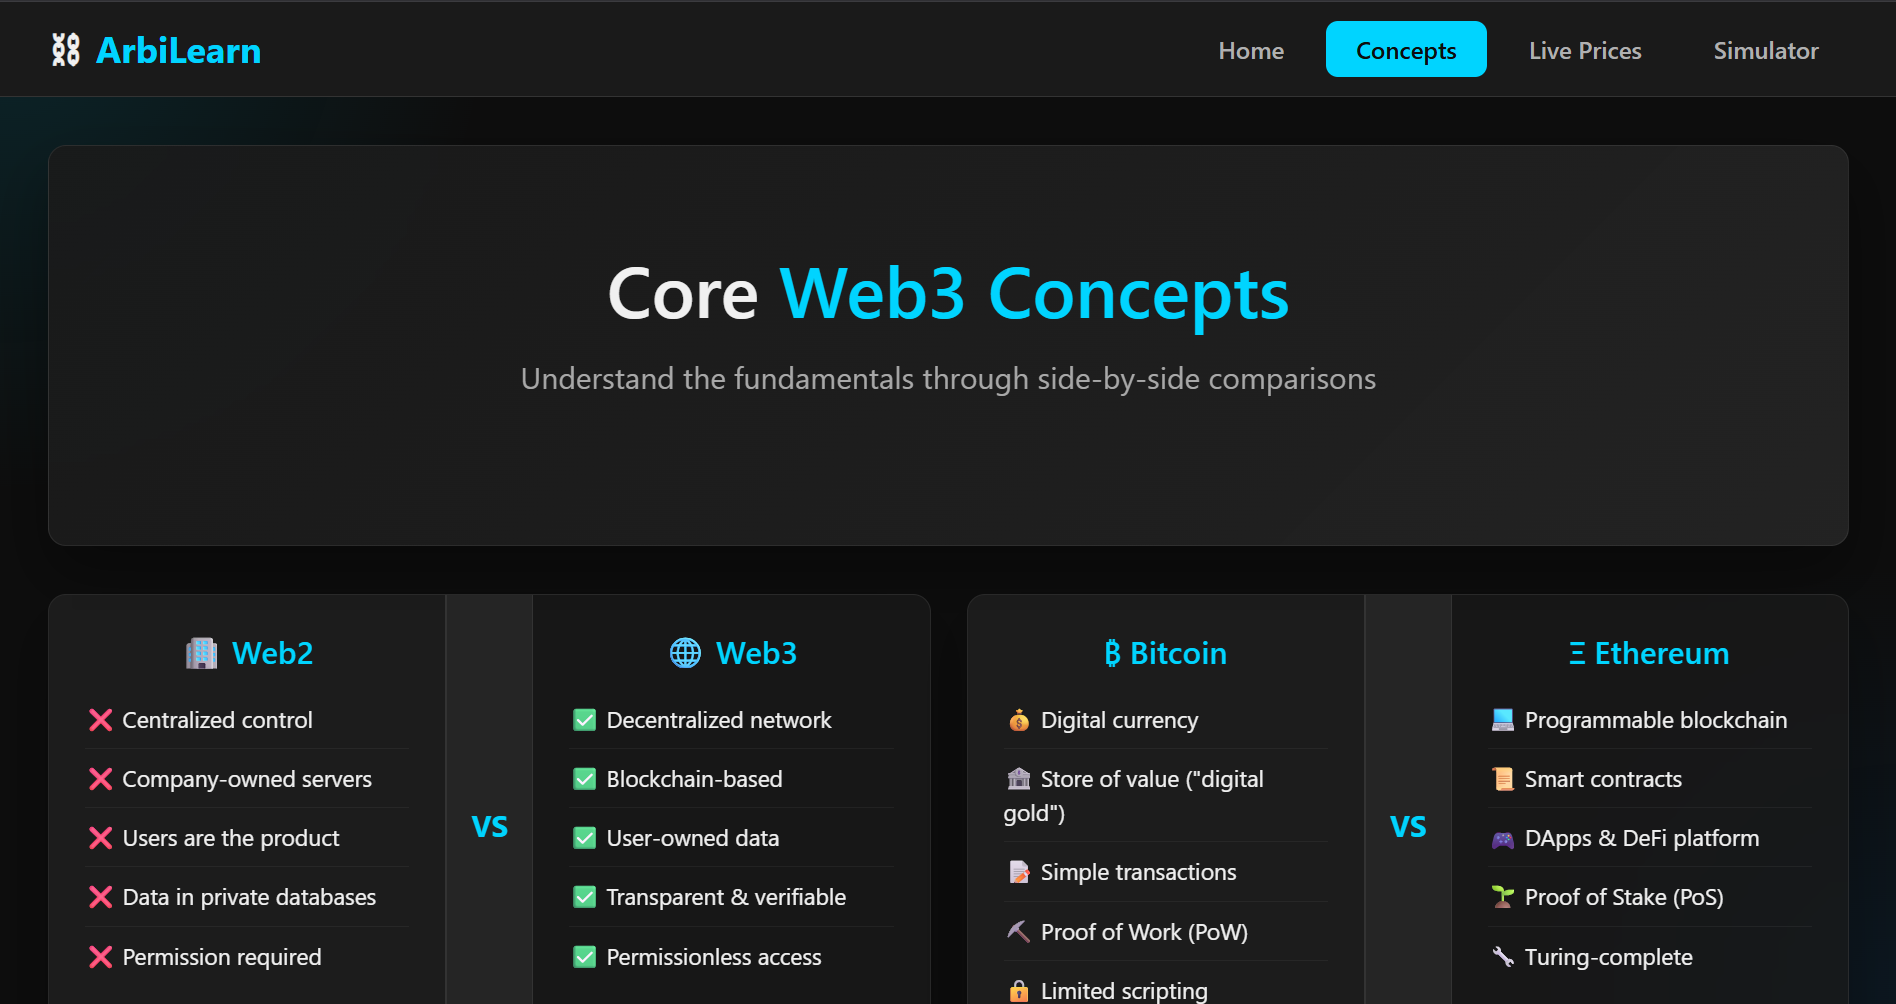
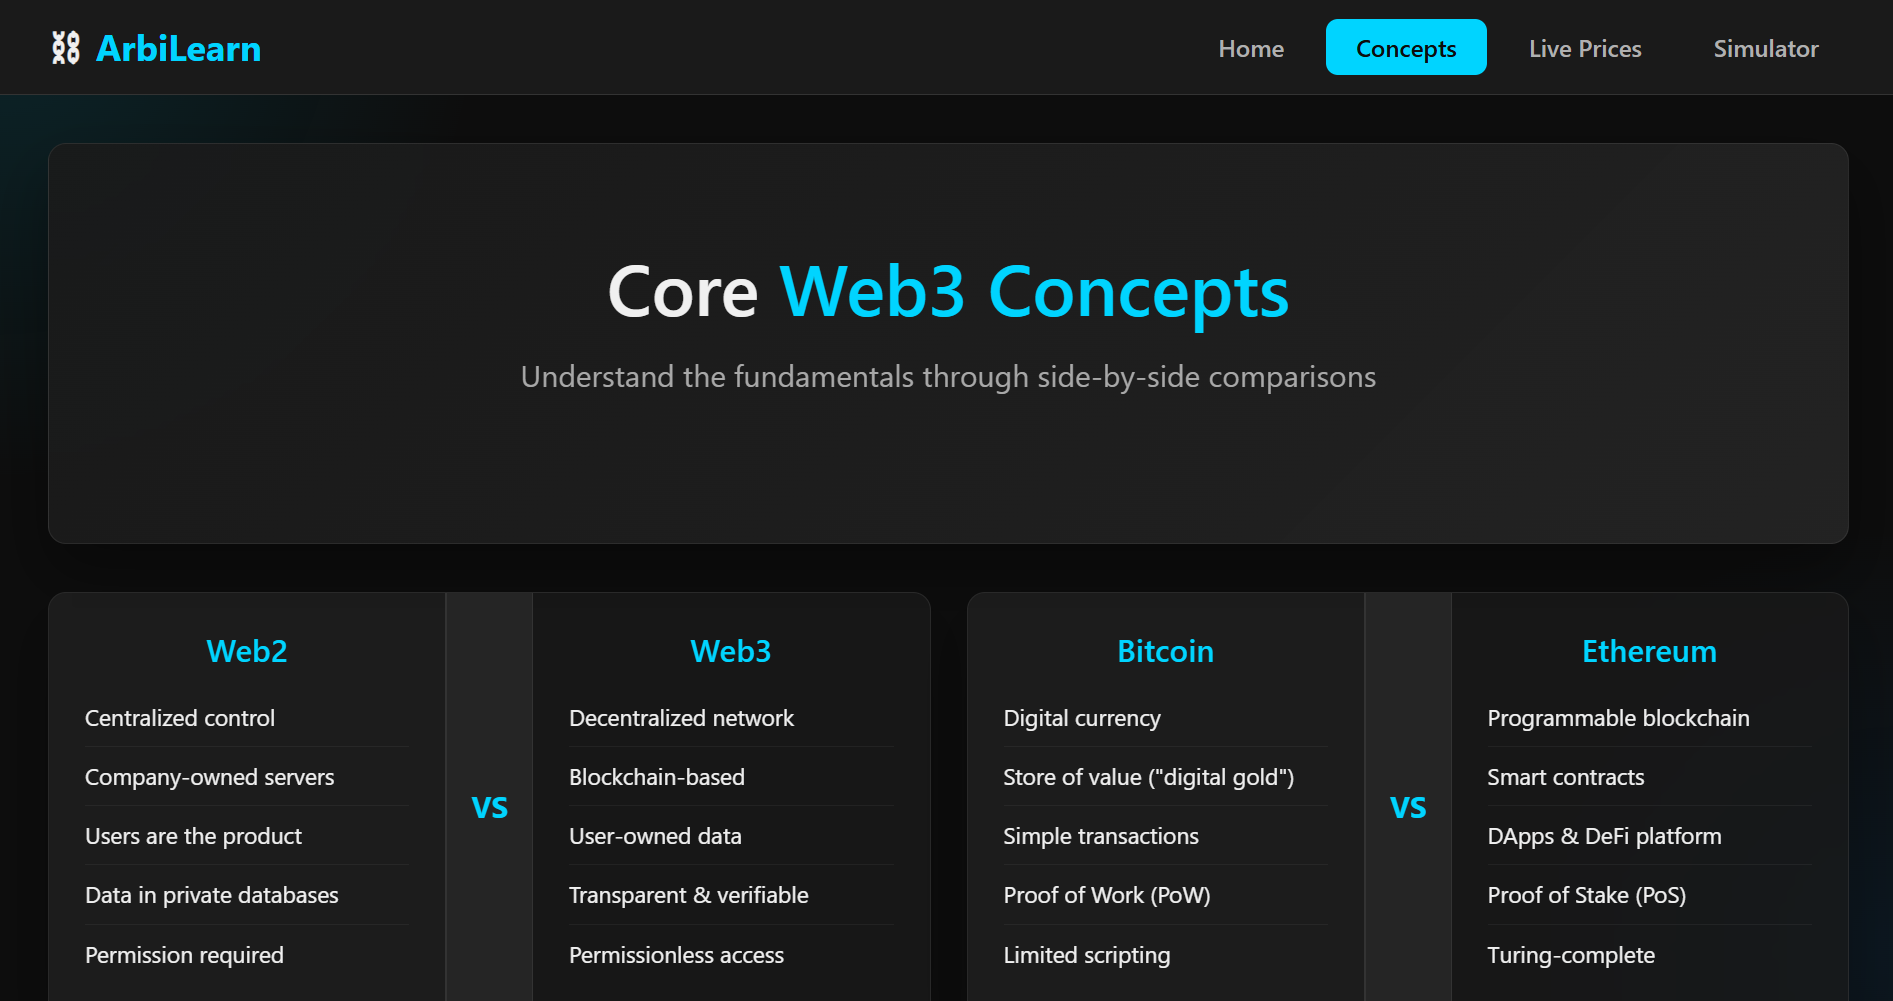
concepts page

diff --git a/concepts.html b/concepts.html
@@ -37,24 +37,24 @@
         <!-- Card 1: Web2 vs Web3 -->
         <div class="card comparison-card">
           <div class="comparison-side">
-            <h3>🏢 Web2</h3>
+            <h3> Web2</h3>
             <ul class="comparison-list">
-              <li>❌ Centralized control</li>
-              <li>❌ Company-owned servers</li>
-              <li>❌ Users are the product</li>
-              <li>❌ Data in private databases</li>
-              <li>❌ Permission required</li>
+              <li> Centralized control</li>
+              <li> Company-owned servers</li>
+              <li> Users are the product</li>
+              <li> Data in private databases</li>
+              <li> Permission required</li>
             </ul>
           </div>
           <div class="vs-divider">VS</div>
           <div class="comparison-side">
-            <h3>🌐 Web3</h3>
+            <h3> Web3</h3>
             <ul class="comparison-list">
-              <li>✅ Decentralized network</li>
-              <li>✅ Blockchain-based</li>
-              <li>✅ User-owned data</li>
-              <li>✅ Transparent & verifiable</li>
-              <li>✅ Permissionless access</li>
+              <li> Decentralized network</li>
+              <li> Blockchain-based</li>
+              <li> User-owned data</li>
+              <li> Transparent & verifiable</li>
+              <li> Permissionless access</li>
             </ul>
           </div>
         </div>
@@ -62,24 +62,24 @@
         <!-- Card 2: Ethereum vs Bitcoin -->
         <div class="card comparison-card">
           <div class="comparison-side">
-            <h3>₿ Bitcoin</h3>
+            <h3> Bitcoin</h3>
             <ul class="comparison-list">
-              <li>💰 Digital currency</li>
-              <li>🏦 Store of value ("digital gold")</li>
-              <li>📝 Simple transactions</li>
-              <li>⛏ Proof of Work (PoW)</li>
-              <li>🔒 Limited scripting</li>
+              <li> Digital currency</li>
+              <li> Store of value ("digital gold")</li>
+              <li> Simple transactions</li>
+              <li> Proof of Work (PoW)</li>
+              <li> Limited scripting</li>
             </ul>
           </div>
           <div class="vs-divider">VS</div>
           <div class="comparison-side">
-            <h3>Ξ Ethereum</h3>
+            <h3> Ethereum</h3>
             <ul class="comparison-list">
-              <li>💻 Programmable blockchain</li>
-              <li>📜 Smart contracts</li>
-              <li>🎮 DApps & DeFi platform</li>
-              <li>🌱 Proof of Stake (PoS)</li>
-              <li>🔧 Turing-complete</li>
+              <li> Programmable blockchain</li>
+              <li> Smart contracts</li>
+              <li> DApps & DeFi platform</li>
+              <li> Proof of Stake (PoS)</li>
+              <li> Turing-complete</li>
             </ul>
           </div>
         </div>
@@ -87,24 +87,24 @@
         <!-- Card 3: Public Key vs Private Key -->
         <div class="card comparison-card">
           <div class="comparison-side">
-            <h3>🔓 Public Key</h3>
+            <h3> Public Key</h3>
             <ul class="comparison-list">
-              <li>📍 Like your bank account number</li>
-              <li>✅ Safe to share publicly</li>
-              <li>📥 Used to receive funds</li>
-              <li>🔗 Derives your wallet address</li>
-              <li>👀 Visible on blockchain</li>
+              <li> Like your bank account number</li>
+              <li> Safe to share publicly</li>
+              <li> Used to receive funds</li>
+              <li> Derives your wallet address</li>
+              <li> Visible on blockchain</li>
             </ul>
           </div>
           <div class="vs-divider">VS</div>
           <div class="comparison-side">
-            <h3>🔐 Private Key</h3>
+            <h3> Private Key</h3>
             <ul class="comparison-list">
-              <li>🔑 Like your password/PIN</li>
-              <li>⚠ NEVER share it</li>
-              <li>✍ Used to sign transactions</li>
-              <li>💀 If lost = funds lost forever</li>
-              <li>🛡 Controls your assets</li>
+              <li> Like your password/PIN</li>
+              <li> NEVER share it</li>
+              <li> Used to sign transactions</li>
+              <li> If lost = funds lost forever</li>
+              <li> Controls your assets</li>
             </ul>
           </div>
         </div>
@@ -112,24 +112,24 @@
         <!-- Card 4: Blockchain vs Traditional Database -->
         <div class="card comparison-card">
           <div class="comparison-side">
-            <h3>🗄 Traditional Database</h3>
+            <h3> Traditional Database</h3>
             <ul class="comparison-list">
-              <li>🏢 Centralized control</li>
-              <li>✏ Editable by admin</li>
-              <li>🤝 Requires trust in operator</li>
-              <li>⚠ Single point of failure</li>
-              <li>🔒 Closed & proprietary</li>
+              <li> Centralized control</li>
+              <li> Editable by admin</li>
+              <li> Requires trust in operator</li>
+              <li> Single point of failure</li>
+              <li> Closed & proprietary</li>
             </ul>
           </div>
           <div class="vs-divider">VS</div>
           <div class="comparison-side">
-            <h3>⛓ Blockchain</h3>
+            <h3> Blockchain</h3>
             <ul class="comparison-list">
-              <li>🌐 Decentralized network</li>
-              <li>🔒 Immutable (write-once)</li>
-              <li>✓ Trustless verification</li>
-              <li>✅ No single point of failure</li>
-              <li>📖 Transparent & open</li>
+              <li> Decentralized network</li>
+              <li> Immutable (write-once)</li>
+              <li> Trustless verification</li>
+              <li> No single point of failure</li>
+              <li> Transparent & open</li>
             </ul>
           </div>
         </div>
